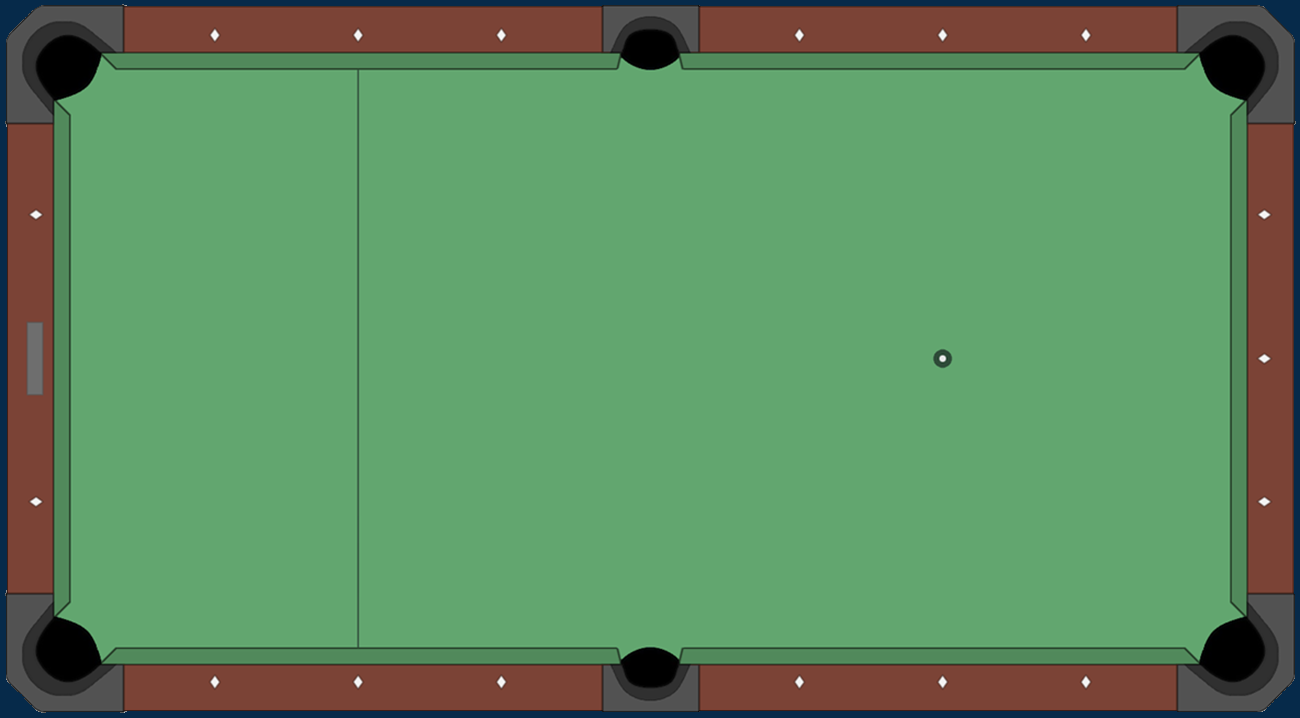
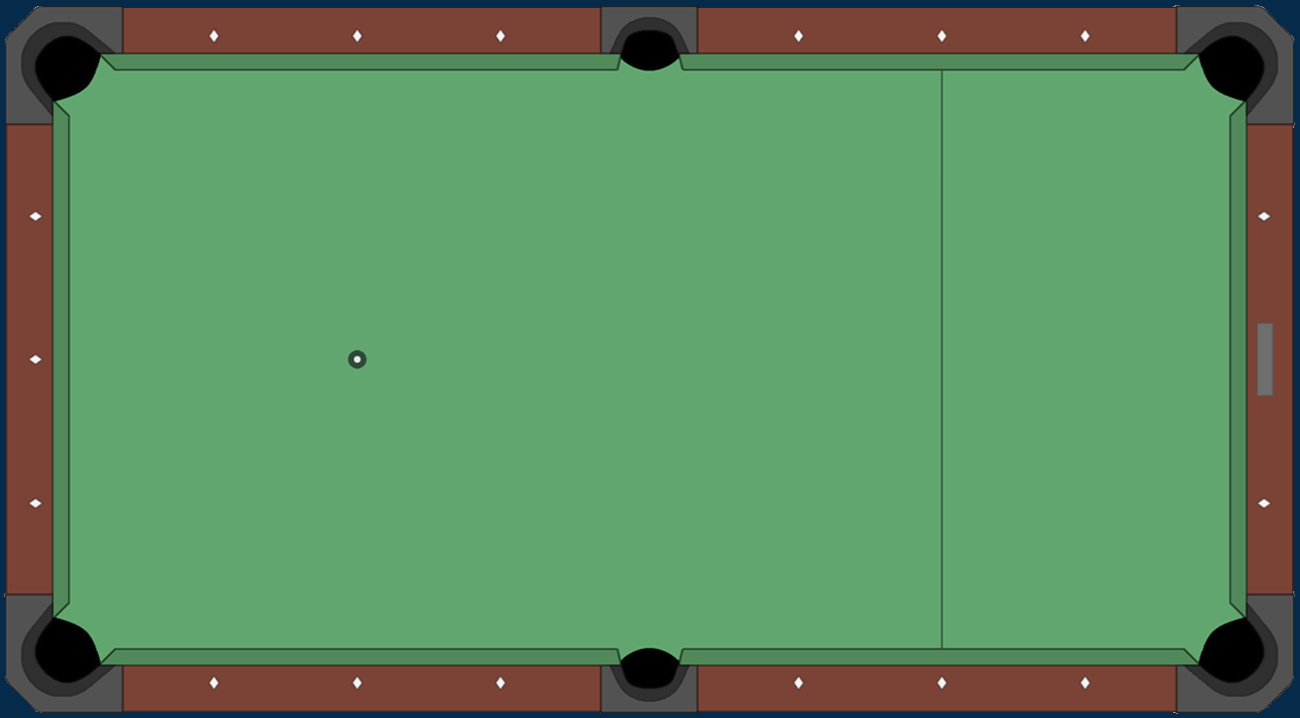
Work in progress, small changes before trying to fix corner bouncing

diff --git a/src/Main.java b/src/Main.java
@@ -19,9 +19,9 @@ public class Main extends JPanel implements MouseListener, KeyListener, Runnable
     public static int startPull;
     public static long timer;
     public static int frames = 0;
-    public static double physicsFreq = 1.0/240.0;
-    public static int offsetX = 50;
-    public static int offsetY = 75;
+    public static double physicsFreq = 1.0/300.0;
+    public static int offsetX = 75;
+    public static int offsetY = 25;
     public static BufferedImage table;
     public static BufferedImage cueImg;
     public static BufferedImage bgcolorImg;
@@ -70,14 +70,22 @@ public class Main extends JPanel implements MouseListener, KeyListener, Runnable
         }
     }
     public void init(){
-        cueBall = new Ball (0, 1000,500, 0);
-        balls.add(new Ball(1,600,374, 1));
-        balls.add(new Ball(2,600,336, 1));
-        balls.add(new Ball(3, 618, 350, 1));
-        balls.add(new Ball(4, 1000,350,1));
-        balls.add(new Ball(5, 582,350,1));
-        balls.add(new Ball(6, 600,300,1));
-        balls.add(new Ball(7, 200,200,1));
+        cueBall = new Ball (0, 942,359, 0);
+        balls.add(new Ball(1,356,359, 1));
+        balls.add(new Ball(2,332,373, 1));
+        balls.add(new Ball(3, 332, 345, 1));
+        balls.add(new Ball(4, 308,359,2));
+        balls.add(new Ball(5, 308,387,1));
+        balls.add(new Ball(6, 308,331,1));
+        balls.add(new Ball(7, 284,373,1));
+        balls.add(new Ball(8, 284,345,1));
+        balls.add(new Ball(9, 284,317,1));
+        balls.add(new Ball(10, 284,401,1));
+        balls.add(new Ball(11, 262,359,1));
+        balls.add(new Ball(12, 262,387,1));
+        balls.add(new Ball(13, 262,331,1));
+        balls.add(new Ball(14, 262,415,1));
+        balls.add(new Ball(15, 262,303,1));
         balls.add(cueBall);
         cue = new Cue();
         //lines.add(new Line(100, 600,1200,600));
@@ -209,8 +217,8 @@ public class Main extends JPanel implements MouseListener, KeyListener, Runnable
     }
     public void physics (){
         if (shotState == 3){
-            cueBall.setVelocity(new Vectorio(3000*cue.getPowerPercent(), cue.getAngle() - Math.PI, true));
-            System.out.println(3000*cue.getPowerPercent());
+            cueBall.setVelocity(new Vectorio(2400*cue.getPowerPercent(), cue.getAngle() - Math.PI, true));
+            //System.out.println(3000*cue.getPowerPercent());
             shotState = 0;
             cue.setShow(false);
         }
@@ -224,13 +232,14 @@ public class Main extends JPanel implements MouseListener, KeyListener, Runnable
                     ghostCueBall.setVelocity(new Vectorio(1, cue.getAngle() - Math.PI, true));
                     ghostObjectBall = new Ball(-1, balls.get(i).getX(), balls.get(i).getY(), -1);
                     int counter = 0;
-                    while (!ghostCueBall.checkCollision(balls.get(i)) && counter < 150) {//March ball forward until collides with ball
-                        ghostCueBall.changeX(cue.getDirection().getX() * -12.5);
-                        ghostCueBall.changeY(cue.getDirection().getY() * -12.5);
+                    while (!ghostCueBall.checkCollision(balls.get(i)) && counter < 300) {//March ball forward until collides with ball
+                        ghostCueBall.changeX(cue.getDirection().getX() * -5.5);
+                        ghostCueBall.changeY(cue.getDirection().getY() * -5.5);
                         counter++;
                     }
-                    if (counter > 149) {
-                        break;
+                    if (counter > 295){
+                        ballCol = false;
+                        continue;
                     }
                     initPath = new Line((int) cueBall.getX(), (int) cueBall.getY(), (int) ghostCueBall.getX(), (int) ghostCueBall.getY());
                     Ball.collisions.clear();
@@ -248,6 +257,7 @@ public class Main extends JPanel implements MouseListener, KeyListener, Runnable
             if (!ballCol) {
                 cuePath = null;
                 objectPath = null;
+                //while(!)
                 initPath = new Line((int) cueBall.getX(), (int) cueBall.getY(),
                         (int) (cueBall.getX() + cue.getDirection().getX() * -500), (int) (cueBall.getY() + cue.getDirection().getY() * -500));
             }

diff --git a/src/Line.java b/src/Line.java
@@ -29,8 +29,11 @@ public class Line {
     }
     public boolean collision (Ball b){
         //if (pointDistance (b.getX(), b.getY()) > pointDistance(b.getX() + b.getVelocity().getX()*0.01*Main.physicsFreq, b.getY() + b.getVelocity().getY()*0.01*Main.physicsFreq)) return false;
-        if (Math.sqrt(Math.pow((b.lastCollisionX - b.getX()), 2) + Math.pow((b.lastCollisionY - b.getY()), 2)) < 14) return true;
         if (pointDistance (b.getX(), b.getY(), true) < 16){
+            if (Math.sqrt(Math.pow((b.lastCollisionX - b.getX()), 2) + Math.pow((b.lastCollisionY - b.getY()), 2)) < 14){
+                System.out.println("problem");
+                return true;
+            }
             while (pointDistance(b.getX(), b.getY(), true) < 14){
                 b.changeX(b.getVelocity().getX() * -0.1 * Main.physicsFreq);
                 b.changeY(b.getVelocity().getY() * -0.1 * Main.physicsFreq);

diff --git a/src/Ball.java b/src/Ball.java
@@ -9,7 +9,7 @@ public class Ball implements Comparable <Ball>{
     private Vectorio velocity;
     private static final int radius = 14;
     private static final double friction = -0.015;
-    private static final double frictionS = 0.9975;
+    private static final double frictionS = 0.9985;
 
     public double lastCollisionX;
     public double lastCollisionY;
@@ -22,6 +22,8 @@ public class Ball implements Comparable <Ball>{
         this.y = y;
         this.colour = colour;
         velocity = new Vectorio(0, 0, true);
+        lastCollisionX = 10000;
+        lastCollisionY = 10000;
     }
     public boolean equals(Object o){
         Ball b = (Ball) o;
